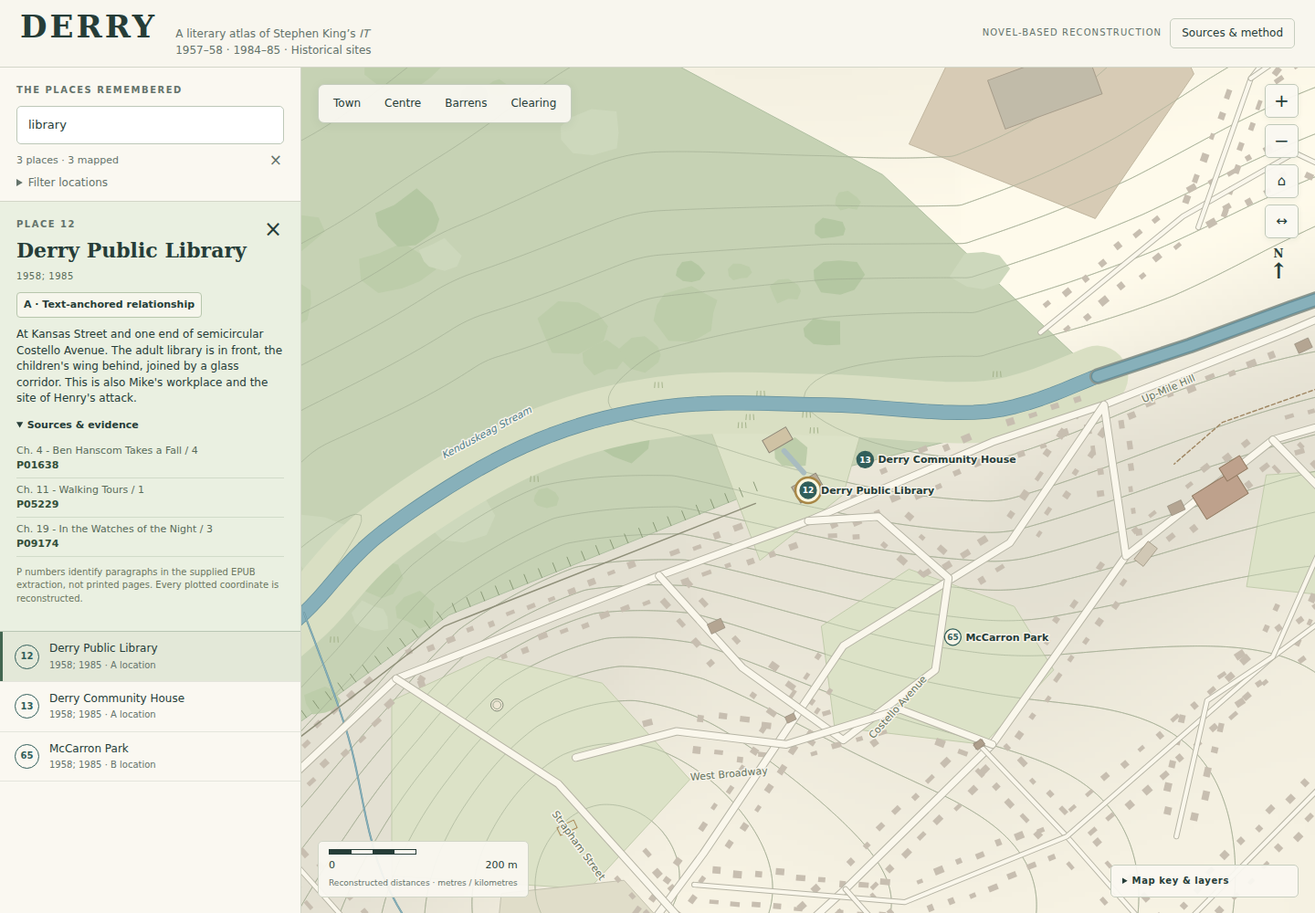
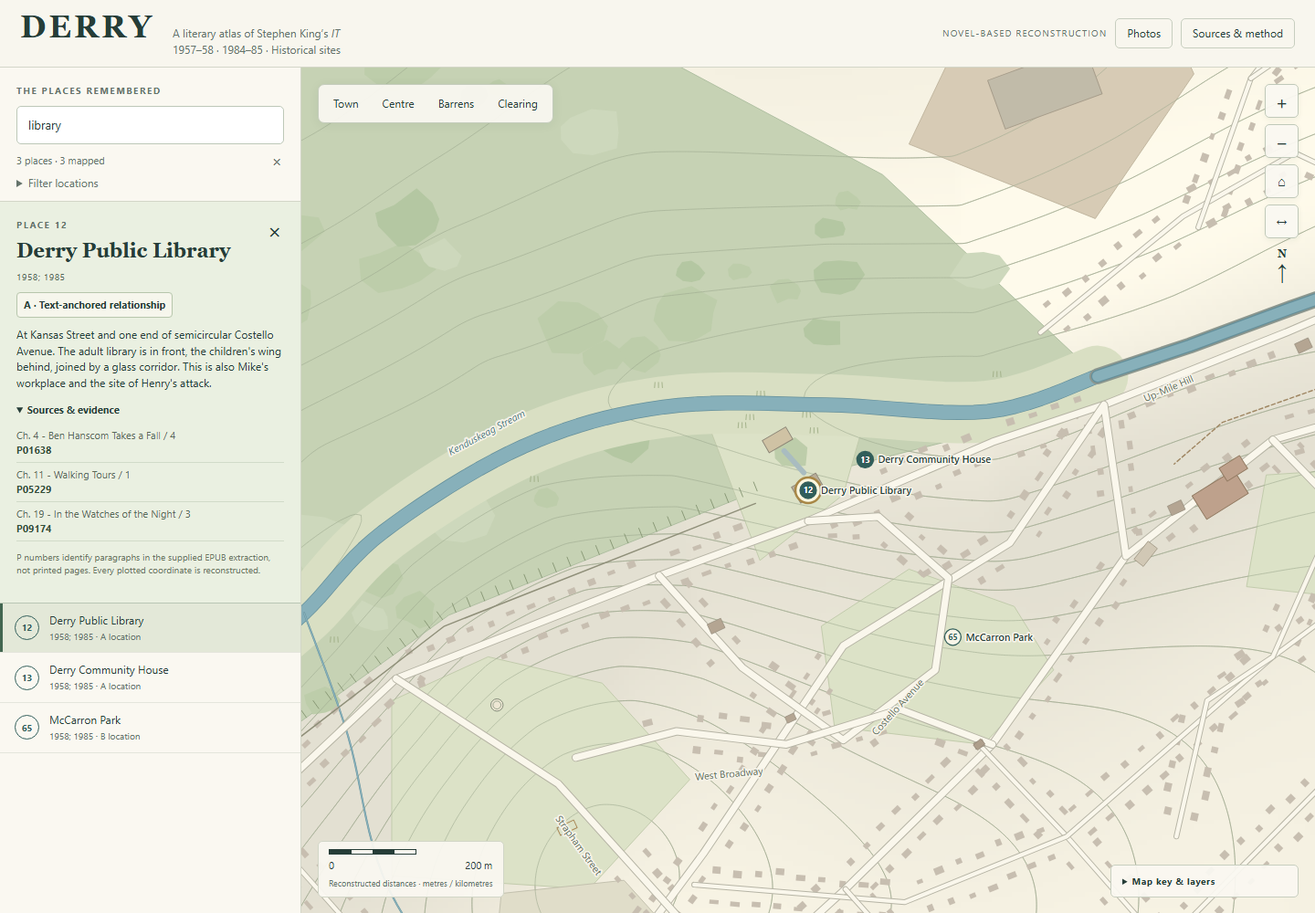
Фотогалерея, стадия 2: страница галереи и страницы фото
- /photos/ — галерея с фильтрами в query-параметрах: place/character/year
  одиночные, tag — несколько через запятую («хотя бы один из»), измерения
  сочетаются как И; запятая и двоеточие не экранируются — ссылками удобно
  делиться
- /photos/<id>/ — страница фото: medium с переходом на оригинал, все
  атрибуты ведут на фильтры галереи
- Deep-link карты /?place=<ключ> открывает карточку места; «Show on the
  map» у мест-точек и нелокализованных, у дорог маркера нет — ссылки нет
- Взаимные ссылки в шапках: Photos на карте, Map в галерее
- Тесты: tests/test_gallery.py (9 шт.), browser.cjs расширен проверками
  галереи и deep-link'ов (устойчив к установке без фото)
- docs/data_interface.md: новые эндпоинты; MANIFEST.sha256 перегенерирован

diff --git a/atlas/static/atlas/map.css b/atlas/static/atlas/map.css
@@ -2,5 +2,7 @@
 :root{--paper:#f6f3e9;--ink:#263d38;--muted:#64736b;--line:#d3d6c8;--accent:#a34b35}*{box-sizing:border-box}body{margin:0;background:var(--paper);color:var(--ink);font:14px/1.45 system-ui,-apple-system,BlinkMacSystemFont,"Segoe UI",sans-serif}button,input{font:inherit}button{cursor:pointer;color:inherit}button:focus-visible,a:focus-visible,input:focus-visible,summary:focus-visible{outline:3px solid #a88746;outline-offset:2px}button:disabled{opacity:.35;cursor:default}.app{height:100vh;height:100dvh;display:grid;grid-template-rows:74px 1fr}header{display:flex;align-items:center;justify-content:space-between;gap:18px;border-bottom:1px solid var(--line);padding:10px 22px;background:#f8f6ee;z-index:5}.brand{display:flex;align-items:baseline;gap:20px}.brand h1{font:700 34px Georgia,serif;letter-spacing:3px;margin:0}.brand p{margin:0;color:var(--muted);font-size:12px;max-width:380px}.header-actions{display:flex;align-items:center;gap:9px}.pill{font-size:10px;letter-spacing:1.1px;color:var(--muted)}.quiet{border:1px solid #c7cebf;border-radius:5px;background:transparent;padding:7px 12px;font-size:12px}.workspace{min-height:0;display:grid;grid-template-columns:330px 1fr}aside{min-height:0;border-right:1px solid var(--line);display:flex;flex-direction:column;background:#faf8f1;z-index:4}.search-area{padding:18px 18px 10px;border-bottom:1px solid var(--line)}.eyebrow{font-size:10px;font-weight:700;letter-spacing:1.5px;text-transform:uppercase;color:var(--muted);margin-bottom:9px}.search{width:100%;padding:11px 12px;border:1px solid #bdc8b8;border-radius:5px;background:white;color:var(--ink);font-size:13px}.counts{display:flex;justify-content:space-between;align-items:center;padding-top:9px;color:var(--muted);font-size:11px}.filters{padding-top:8px;font-size:12px}.filters summary{cursor:pointer;color:var(--muted)}.filtergrid{display:grid;grid-template-columns:1fr 1fr;gap:7px 4px;padding:10px 0 3px}.filtergrid label{display:flex;align-items:center;gap:5px}.filtergrid input{accent-color:#315e5a}.sidebar-scroll{min-height:0;overflow-y:auto;overscroll-behavior:contain}.intro{padding:17px 18px 15px;color:var(--muted);font-size:12px;border-bottom:1px solid var(--line)}.intro p{margin:0 0 9px}.intro b{color:var(--ink)}.place-list{list-style:none;padding:0;margin:0}.place-list li{border-bottom:1px solid #e4e5dc}.place-list button{display:flex;gap:11px;width:100%;text-align:left;border:0;background:transparent;padding:10px 16px;align-items:center}.place-list button:hover{background:#efeee4}.place-list button.selected{background:#e3e8d8;border-left:3px solid #426650;padding-left:13px}.num{display:grid;place-items:center;flex:0 0 27px;width:27px;height:27px;border-radius:50%;border:1px solid currentColor;font-size:10px;font-weight:750}.item-title{display:block;font-size:12px;line-height:1.35}.item-sub{display:block;color:var(--muted);font-size:10px;margin-top:3px}.detail{padding:18px;border-bottom:1px solid #b9c6b4;background:#eaf0e1}.detail-top{display:flex;align-items:flex-start;gap:12px;justify-content:space-between}.detail h2{font:600 22px/1.17 Georgia,serif;margin:6px 0 8px}.detail p{font-size:12px;margin:10px 0}.detail .meta{font-size:10px;color:#576a57;text-transform:uppercase;letter-spacing:.55px}.close{border:0;background:none;font-size:24px;line-height:1;padding:0 2px}.badge{font-size:11px;font-weight:700;padding:5px 7px;border:1px solid #b7c6ac;border-radius:4px;display:inline-block;background:#f6f6ec}.detail details{font-size:11px;margin:13px 0 0}.detail summary{cursor:pointer;font-weight:650}.refs{margin:7px 0 0;padding:0;list-style:none;color:#586b59}.refs li{padding:5px 0;border-bottom:1px solid #d1dbc9}.refs b{color:#334e39}.detail .note{font-size:10px;color:#6b765f}.stage{position:relative;overflow:hidden;min-width:0;background:#efeddf;touch-action:none}svg#map{display:block;width:100%;height:100%;cursor:grab;touch-action:none}svg#map.dragging{cursor:grabbing}svg#map.measuring{cursor:crosshair}.viewbar{position:absolute;left:18px;top:18px;display:flex;padding:4px;background:#faf8f1ed;border:1px solid #c4ccbc;border-radius:7px;box-shadow:0 2px 12px #273d3610;gap:2px}.viewbar button{background:none;border:0;border-radius:4px;padding:8px 12px;font-size:12px}.viewbar button.active{background:#315e5a;color:#fff}.tools{position:absolute;right:18px;top:18px;display:flex;flex-direction:column;gap:7px}.tools button{width:37px;height:37px;background:#faf8f1f0;border:1px solid #c0c9b9;border-radius:5px;font-size:20px;box-shadow:0 2px 6px #273d3610}.tools button.small{font-size:15px}.tools button.on{background:#315e5a;color:white}.north{position:absolute;right:30px;top:197px;font:bold 12px Georgia,serif;text-align:center;pointer-events:none}.north span{display:block;font-size:24px;line-height:23px}.scale-panel{position:absolute;left:18px;bottom:17px;padding:8px 11px;background:#faf8f1ed;border-radius:5px;border:1px solid #d1d6c7;pointer-events:none}.scale-line{height:6px;border:1px solid var(--ink);background:linear-gradient(90deg,var(--ink) 0 25%,transparent 25% 50%,var(--ink) 50% 75%,transparent 75%);margin-bottom:4px}.scale-text{font-size:11px;display:flex;justify-content:space-between}.scale-caption{font-size:9px;color:var(--muted);margin-top:5px}.map-legend{position:absolute;bottom:17px;right:18px;width:206px;background:#faf8f1ed;border:1px solid #c7cebf;border-radius:5px;padding:10px 12px;font-size:10px}.map-legend summary{font-weight:700;cursor:pointer;letter-spacing:.6px;font-size:10px}.legend-items{display:grid;gap:5px;margin-top:9px}.legend-items label{display:flex;align-items:center;gap:6px}.legend-items input{accent-color:#315e5a}.legend-items p{color:var(--muted);margin:4px 0 2px;font-size:10px}.toast{position:absolute;bottom:88px;left:50%;transform:translateX(-50%);max-width:90%;border:1px solid #bac7b1;border-radius:6px;padding:9px 14px;background:#faf8f1ed;text-align:center;font-size:12px;box-shadow:0 2px 6px #1e302915;pointer-events:none}.mark{cursor:pointer}.mark text{font:700 9px system-ui,sans-serif;pointer-events:none}.mark:focus{outline:none}.map-name{font:600 11px system-ui,sans-serif;fill:#263d38;paint-order:stroke;stroke:#f6f3e9;stroke-width:3px;stroke-linejoin:round;pointer-events:none}.map-road{font:11px system-ui,sans-serif;fill:#66735d;paint-order:stroke;stroke:#f6f3e9;stroke-width:3px;stroke-linejoin:round;pointer-events:none}dialog{max-width:770px;width:calc(100vw - 30px);max-height:85vh;border:1px solid #acbda3;border-radius:10px;padding:26px;background:#faf8f1;color:var(--ink);box-shadow:0 20px 100px #172b3855}dialog::backdrop{background:#172a2c77}dialog h2{font:700 29px Georgia,serif;margin:0 0 14px}dialog h3{font-size:13px;margin-top:22px}dialog p,dialog li{font-size:13px}dialog a{color:#315e5a}dialog .close{float:right}.source{padding:11px 0;border-top:1px solid #d6ddcd}.source a{font-weight:650}.source p{font-size:12px;margin:5px 0;color:#586b59}.help{color:var(--muted);font-size:11px;margin-top:16px}.mobile-toggle{display:none}.empty{padding:20px;font-size:12px;color:#7a6752}#map:focus{outline:2px solid #a88746;outline-offset:-2px}
 @media(max-width:780px){.app{grid-template-rows:65px 1fr}header{padding:8px 13px}.brand{gap:10px}.brand h1{font-size:25px}.brand p{font-size:10px;max-width:170px}.pill{display:none}.quiet{padding:7px 8px;font-size:11px}.workspace{grid-template-columns:1fr;grid-template-rows:1fr;position:relative}aside{position:absolute;left:10px;top:60px;bottom:74px;width:min(330px,calc(100% - 66px));border:1px solid #c3ccba;border-radius:7px;box-shadow:0 4px 20px #1f3a3420;display:none}.workspace.open aside{display:flex}.stage{grid-row:1}.viewbar{left:10px;top:10px;padding:3px}.viewbar button{font-size:11px;padding:8px 9px}.tools{top:64px;right:10px}.north{right:22px;top:242px}.map-legend{right:10px;bottom:12px;width:159px;padding:8px;font-size:9px}.scale-panel{left:10px;bottom:12px;max-width:175px}.scale-caption{font-size:8px}.mobile-toggle{display:inline-block}.search-area{padding:12px}.intro,.detail{padding:13px}.toast{bottom:93px;left:50%;width:80%;font-size:11px}.source p{font-size:11px}}
 @media print{header,aside,.viewbar,.tools,.map-legend,.toast{display:none!important}.app,.workspace,.stage{display:block;height:100vh;width:100vw}.north{top:20px}svg#map{width:100%;height:100%}}
+/* The header "Photos" link shares the .quiet button look. */
+a.quiet{text-decoration:none;color:inherit;display:inline-block}
 /* Compact header: keep controls and title fully visible on narrow screens. */
 @media(max-width:780px){.brand{display:block;min-width:0}.brand p{display:none}.brand h1{line-height:1.1}.header-actions{flex-shrink:0}.header-actions .quiet{white-space:nowrap}}

diff --git a/atlas/templates/atlas/index.html b/atlas/templates/atlas/index.html
@@ -2,7 +2,7 @@
 <!doctype html>
 <html lang="en"><head><meta charset="utf-8"><meta name="viewport" content="width=device-width, initial-scale=1"><title>Derry · A literary atlas of IT</title>
 <link rel="stylesheet" href="{% static 'atlas/map.css' %}"></head><body>
-<div class="app"><header><div class="brand"><h1>DERRY</h1><p>A literary atlas of Stephen King’s <i>IT</i><br>1957–58 · 1984–85 · Historical sites</p></div><div class="header-actions"><span class="pill">NOVEL-BASED RECONSTRUCTION</span><button class="quiet mobile-toggle" id="placesToggle" aria-expanded="false">Places</button><button class="quiet" id="aboutBtn">Sources & method</button></div></header>
+<div class="app"><header><div class="brand"><h1>DERRY</h1><p>A literary atlas of Stephen King’s <i>IT</i><br>1957–58 · 1984–85 · Historical sites</p></div><div class="header-actions"><span class="pill">NOVEL-BASED RECONSTRUCTION</span><button class="quiet mobile-toggle" id="placesToggle" aria-expanded="false">Places</button><a class="quiet" href="/photos/">Photos</a><button class="quiet" id="aboutBtn">Sources & method</button></div></header>
 <div class="workspace" id="workspace"><aside aria-label="Place index"><div class="search-area"><div class="eyebrow">The places remembered</div><input class="search" id="search" placeholder="Search a place, person or event…" aria-label="Search locations"><div class="counts"><span id="count"></span><button id="clearSearch" class="close" aria-label="Clear search" style="font-size:17px">×</button></div><details class="filters"><summary>Filter locations</summary><div class="filtergrid" id="filters"></div></details></div><div class="sidebar-scroll" id="scroll"><section id="detail" class="detail" hidden aria-live="polite"></section><div class="intro" id="intro"><p><b>One town, several remembered times.</b> Former places remain on the same map as their later uses.</p><p>Choose a numbered marker to see the book reference and the reasoning behind its position. Zoom in for smaller sites. Search also includes places that cannot be located.</p><p>Filled circle: text-anchored relationship.<br>Open circle: inferred position.<br>Diamond: proposed location.</p></div><ul class="place-list" id="list"></ul></div></aside>
 <main class="stage" aria-label="Interactive map"><svg id="map" xmlns="http://www.w3.org/2000/svg" tabindex="0" aria-label="Derry map. Use arrow keys to pan and plus or minus to zoom."><g id="world"></g><g id="landLabels"></g><g id="markers"></g><g id="measureLayer"></g></svg><nav class="viewbar" aria-label="Map regions"><button data-view="city" class="active">Town</button><button data-view="central">Centre</button><button data-view="barrens">Barrens</button><button data-view="camp">Clearing</button></nav><div class="tools"><button id="zoomIn" aria-label="Zoom in" title="Zoom in">+</button><button id="zoomOut" aria-label="Zoom out" title="Zoom out">−</button><button id="reset" class="small" aria-label="Show all Derry" title="Show all Derry">⌂</button><button id="measure" class="small" aria-label="Measure straight-line distance" title="Measure a straight-line distance">↔</button></div><div class="north" aria-hidden="true">N<span>↑</span></div><div class="scale-panel"><div class="scale-line" id="scaleLine"></div><div class="scale-text"><span>0</span><span id="scaleText"></span></div><div class="scale-caption">Reconstructed distances · metres / kilometres</div></div><details class="map-legend"><summary>Map key & layers</summary><div class="legend-items"><label><input type="checkbox" id="showNames" checked>Place names</label><label><input type="checkbox" id="showRelief" checked>Conceptual relief</label><label><input type="checkbox" id="showBuildings" checked>Illustrative buildings</label><p>Green: woodland / park<br>Blue: surface water<br>Dashed blue: covered channel<br>Dashed brown: inferred footpath</p><p>Contours are not measured elevations. All coordinates and boundaries are reconstructed.</p></div></details><div class="toast" id="toast" hidden></div></main></div></div>
 <dialog id="about"><button class="close" id="closeAbout" aria-label="Close sources">×</button><h2>Built from the novel</h2><p>This is a reasoned reconstruction of fictional geography, not a canonical or surveyed map. The supplied English text of <i>IT</i> is the primary source. Film and television geography has not been used.</p><p>The town plan combines both main periods and the historical interludes. Dates in the place cards distinguish former sites and replacements; the map does not depict a single historical day. It covers surface geography only.</p><h3>What the symbols mean</h3><p><b>A · Text-anchored relationship.</b> The street, adjoining feature or named site is explicit. The plotted coordinate remains reconstructed.<br><b>B · Inferred position.</b> Routes, proximity and relative directions constrain the placement.<br><b>C · Proposed location.</b> A substantial gap remains; the position is a plausible option.<br><b>U · Unlocated / off map.</b> The place is indexed without an invented coordinate.</p><h3>Where the book does not settle the geometry</h3><p id="methodGeometry"></p><p>The original research notes record the reconstruction decisions and remaining contradictions. Current evidence is shown in the place cards.</p><h3>Primary text</h3><p>Stephen King, <i>IT</i>. English EPUB supplied by the reader. The exact edition is not reliably identified in its metadata. References name chapters or interludes; P numbers refer to paragraphs in this specific extraction, not printed pages. No complete novel text is included in this website.</p><h3>Open sources consulted</h3><div id="sources"></div><p class="help">The map is served by this website. Optional source links open external websites. Drag to pan; use the wheel, buttons or pinch gesture to zoom. With the map focused, arrow keys pan and + / − zoom. The ruler measures straight-line distances in the reconstruction, not canonical travel distances. Press Escape to clear a measurement or close a place card.</p></dialog>

diff --git a/atlas/static/atlas/gallery.css b/atlas/static/atlas/gallery.css
@@ -1,0 +1,43 @@
+/* Страницы фотогалереи; палитра и шапка согласованы с map.css. */
+:root{--paper:#f6f3e9;--ink:#263d38;--muted:#64736b;--line:#d3d6c8;--accent:#a34b35}
+*{box-sizing:border-box}
+body{margin:0;background:var(--paper);color:var(--ink);font:14px/1.45 system-ui,-apple-system,BlinkMacSystemFont,"Segoe UI",sans-serif}
+a{color:#315e5a}
+a:focus-visible{outline:3px solid #a88746;outline-offset:2px}
+header{display:flex;align-items:center;justify-content:space-between;gap:18px;border-bottom:1px solid var(--line);padding:10px 22px;background:#f8f6ee}
+.brand{display:flex;align-items:baseline;gap:20px}
+.brand h1{font:700 34px Georgia,serif;letter-spacing:3px;margin:0}
+.brand p{margin:0;color:var(--muted);font-size:12px;max-width:380px}
+.header-actions{display:flex;align-items:center;gap:9px}
+.pill{font-size:10px;letter-spacing:1.1px;color:var(--muted)}
+.quiet{border:1px solid #c7cebf;border-radius:5px;background:transparent;padding:7px 12px;font-size:12px;color:inherit;text-decoration:none;display:inline-block}
+.page{max-width:1060px;margin:0 auto;padding:20px 22px 50px}
+.filters{border:1px solid var(--line);border-radius:7px;background:#faf8f1;padding:6px 14px;margin-bottom:20px}
+.frow{display:flex;align-items:baseline;gap:10px;padding:7px 0;border-bottom:1px solid #e4e5dc}
+.frow:last-child{border-bottom:0}
+.fname{flex:0 0 84px;font-size:10px;font-weight:700;letter-spacing:1.5px;text-transform:uppercase;color:var(--muted)}
+.chips{display:flex;flex-wrap:wrap;gap:6px}
+.chip{display:inline-flex;align-items:center;gap:5px;border:1px solid #c7cebf;border-radius:12px;padding:3px 10px;font-size:12px;text-decoration:none;color:var(--ink);background:#fff}
+.chip:hover{background:#efeee4}
+.chip.on{background:#315e5a;border-color:#315e5a;color:#fff}
+.chip .n{font-size:10px;color:var(--muted)}
+.chip.on .n{color:#cfe0d2}
+.status{justify-content:space-between;color:var(--muted);font-size:12px}
+.grid{list-style:none;margin:0;padding:0;display:grid;grid-template-columns:repeat(auto-fill,minmax(240px,1fr));gap:18px}
+.card{border:1px solid var(--line);border-radius:7px;background:#faf8f1;overflow:hidden;display:flex;flex-direction:column}
+.card .pic{display:block;background:#e8e4d4}
+.card img{display:block;width:100%;height:auto}
+.card .caption{margin:0;padding:10px 12px 4px;font-size:12px}
+.card .caption a{color:var(--ink);text-decoration:none}
+.card .caption a:hover{text-decoration:underline}
+.card .meta{margin:0;padding:0 12px 11px;font-size:11px;color:var(--muted)}
+.empty{padding:30px 0;font-size:13px;color:#7a6752}
+.crumbs{font-size:12px;margin:0 0 14px}
+.photo{max-width:820px}
+.photo figure{margin:0}
+.photo img{display:block;width:100%;height:auto;border:1px solid var(--line);border-radius:7px;background:#e8e4d4}
+.photo figcaption{font:600 17px/1.35 Georgia,serif;margin:14px 0 4px}
+.facts{display:grid;grid-template-columns:110px 1fr;gap:8px 14px;margin:18px 0 0;font-size:13px}
+.facts dt{font-size:10px;font-weight:700;letter-spacing:1.5px;text-transform:uppercase;color:var(--muted);padding-top:2px}
+.facts dd{margin:0}
+@media(max-width:780px){.brand h1{font-size:25px}.brand p{display:none}.page{padding:14px 14px 40px}.frow{flex-wrap:wrap;gap:4px 10px}.fname{flex-basis:100%;padding-bottom:2px}.facts{grid-template-columns:1fr;gap:2px}.facts dd{margin-bottom:8px}}

diff --git a/atlas/static/atlas/map.js b/atlas/static/atlas/map.js
@@ -74,7 +74,9 @@ map.addEventListener('pointercancel',e=>{pointers.delete(e.pointerId);last=null;
 map.addEventListener('wheel',e=>{e.preventDefault();zoom(Math.exp(-Math.max(-120,Math.min(120,e.deltaY))*.003),...local(e))},{passive:false});map.addEventListener('dblclick',e=>{if(!state.measuring&&!e.target.closest('.mark'))zoom(1.8,...local(e))});
 map.addEventListener('keydown',e=>{if(e.key==='+'||e.key==='='){e.preventDefault();zoom(1.4)}else if(e.key==='-'){e.preventDefault();zoom(1/1.4)}else if(['ArrowLeft','ArrowRight','ArrowUp','ArrowDown'].includes(e.key)){e.preventDefault();state.cx+=({'ArrowLeft':-80,'ArrowRight':80}[e.key]||0)/state.k;state.cy+=({'ArrowUp':80,'ArrowDown':-80}[e.key]||0)/state.k;state.view='';render()}});
 document.addEventListener('keydown',e=>{if(e.key==='Escape'){if(state.measuring)toggleMeasure(false);else closeDetail()}});
-new ResizeObserver(entries=>{const r=entries[0].contentRect;state.w=r.width;state.h=r.height;if(!state.ready){state.ready=true;fit('city')}else render()}).observe(q('.stage'));
+// Deep link from the photo gallery: /?place=12 or /?place=U3 opens the place card.
+function deepLink(){const p=new URLSearchParams(location.search).get('place');if(p)select(/^\d+$/.test(p)?Number(p):p,true)}
+new ResizeObserver(entries=>{const r=entries[0].contentRect;state.w=r.width;state.h=r.height;if(!state.ready){state.ready=true;fit('city');deepLink()}else render()}).observe(q('.stage'));
 list();
 // Exposed read-only diagnostics make the offline artifact easy to validate.
 window.DerryAtlas={get revision(){return PAYLOAD.revision},get siteCount(){return D.sites.length},get unlocatedCount(){return D.unplaced.length},get view(){return {...state,active:[...state.active]}},select,fit,format};

diff --git a/atlas/templates/atlas/gallery.html b/atlas/templates/atlas/gallery.html
@@ -1,0 +1,17 @@
+{% extends 'atlas/gallery_base.html' %}
+{% block title %}Photographs{% endblock %}
+{% block content %}
+<section class="filters" aria-label="Photograph filters">
+{% for g in groups %}{% if g.options %}<div class="frow"><span class="fname">{{ g.title }}</span><span class="chips">{% for o in g.options %}<a class="chip{% if o.active %} on{% endif %}" href="{{ o.url }}">{{ o.label }}{% if o.count %}<span class="n">{{ o.count }}</span>{% endif %}</a>{% endfor %}</span></div>{% endif %}{% endfor %}
+<div class="frow status"><span>{{ cards|length }} photograph{{ cards|length|pluralize }}</span>{% if filtered %}<a class="clear" href="{{ clear_url }}">Clear filters ×</a>{% endif %}</div>
+</section>
+{% if cards %}
+<ul class="grid">
+{% for c in cards %}<li class="card">
+<a class="pic" href="/photos/{{ c.photo.id }}/"><img src="{{ c.thumb }}" alt="{{ c.photo.caption|default:c.photo.original_name }}" width="{{ c.photo.width }}" height="{{ c.photo.height }}" loading="lazy"></a>
+<p class="caption"><a href="/photos/{{ c.photo.id }}/">{{ c.photo.caption|default:c.photo.original_name }}</a></p>
+<p class="meta">{% if c.photo.year %}<a href="{{ c.year_url }}">{{ c.photo.year }}</a>{% endif %}{% if c.photo.year and c.place_url %} · {% endif %}{% if c.place_url %}<a href="{{ c.place_url }}">{{ c.place_label }}</a>{% endif %}</p>
+</li>{% endfor %}
+</ul>
+{% else %}<p class="empty">No photographs match these filters. <a href="{{ clear_url }}">Show all photographs</a>.</p>{% endif %}
+{% endblock %}

diff --git a/atlas/templates/atlas/photo.html b/atlas/templates/atlas/photo.html
@@ -1,0 +1,16 @@
+{% extends 'atlas/gallery_base.html' %}
+{% block title %}{{ photo.caption|default:photo.original_name|truncatechars:60 }}{% endblock %}
+{% block content %}
+<p class="crumbs"><a href="/photos/">← All photographs</a></p>
+<article class="photo">
+<figure><a href="{{ urls.original }}" title="Open the original file"><img src="{{ urls.medium }}" alt="{{ photo.caption|default:photo.original_name }}" width="{{ photo.width }}" height="{{ photo.height }}"></a>
+{% if photo.caption %}<figcaption>{{ photo.caption }}</figcaption>{% endif %}</figure>
+<dl class="facts">
+{% if photo.year %}<dt>Year</dt><dd><a href="{{ year_url }}">{{ photo.year }}</a></dd>{% endif %}
+{% if place_label %}<dt>Place</dt><dd><a href="{{ place_url }}">{{ place_label }}</a>{% if map_url %} · <a href="{{ map_url }}">Show on the map</a>{% endif %}</dd>{% endif %}
+{% if characters %}<dt>Characters</dt><dd>{% for c in characters %}<a href="{{ c.url }}">{{ c.name }}</a>{% if not forloop.last %}, {% endif %}{% endfor %}</dd>{% endif %}
+{% if tags %}<dt>Tags</dt><dd class="chips">{% for t in tags %}<a class="chip" href="{{ t.url }}">{{ t.slug }}</a>{% endfor %}</dd>{% endif %}
+<dt>Original</dt><dd><a href="{{ urls.original }}">{{ photo.width }} × {{ photo.height }} px · {{ photo.ext|upper }}</a></dd>
+</dl>
+</article>
+{% endblock %}

diff --git a/atlas/templates/atlas/gallery_base.html b/atlas/templates/atlas/gallery_base.html
@@ -1,0 +1,7 @@
+{% load static %}
+<!doctype html>
+<html lang="en"><head><meta charset="utf-8"><meta name="viewport" content="width=device-width, initial-scale=1"><title>{% block title %}Photographs{% endblock %} · Derry</title>
+<link rel="stylesheet" href="{% static 'atlas/gallery.css' %}"></head><body>
+<header><div class="brand"><h1>DERRY</h1><p>Photographs from a literary atlas of Stephen King’s <i>IT</i><br>1957–58 · 1984–85</p></div><div class="header-actions"><span class="pill">NOVEL-BASED RECONSTRUCTION</span><a class="quiet" href="/">Map</a></div></header>
+<main class="page">{% block content %}{% endblock %}</main>
+</body></html>

diff --git a/tests/test_gallery.py b/tests/test_gallery.py
@@ -1,0 +1,126 @@
+import tempfile
+from pathlib import Path
+from django.test import TestCase, override_settings
+from atlas import photos
+from atlas.models import Feature, Geometry
+
+from .test_photos import make_image
+
+
+# Обычное статическое хранилище: манифест whitenoise в тестах не собирается.
+@override_settings(ALLOWED_HOSTS=['testserver'], STORAGES={
+    'default': {'BACKEND': 'django.core.files.storage.FileSystemStorage'},
+    'staticfiles': {'BACKEND': 'django.contrib.staticfiles.storage.StaticFilesStorage'}})
+class GalleryTests(TestCase):
+    @classmethod
+    def setUpTestData(cls):
+        point = Geometry.objects.create(key='g:12', shape={'type': 'point', 'x': 0, 'y': 0})
+        line = Geometry.objects.create(key='g:road:02', shape={'type': 'line', 'points': [[0, 0], [10, 0]]})
+        Feature.objects.create(key='12', object_type='site', name='Derry Public Library',
+                               short='Library', kind='Civic', confidence='B', rank=2,
+                               geometry=point, metadata={})
+        Feature.objects.create(key='road:02', object_type='road', name='Main Street',
+                               geometry=line, metadata={})
+
+    def setUp(self):
+        self.dir = tempfile.TemporaryDirectory()
+        self.addCleanup(self.dir.cleanup)
+        root = Path(self.dir.name)
+        self.settings_override = override_settings(MEDIA_ROOT=root / 'media')
+        self.settings_override.enable()
+        self.addCleanup(self.settings_override.disable)
+        source = root / 'incoming'
+        # Разные цвета — разные SHA-256, иначе add() отбросит дубликаты.
+        make_image(source / 'a.png', color=(10, 20, 30))
+        make_image(source / 'b.png', color=(40, 50, 60))
+        make_image(source / 'c.png', color=(70, 80, 90))
+        make_image(source / 'd.png', color=(100, 110, 120))
+        self.ben = photos.add(source / 'a.png', caption='Ben at the library.', feature='12',
+                              year=1958, characters=['ben-hanscom'], tags=['library', 'interior'])
+        self.building = photos.add(source / 'b.png', caption='The library building.', feature='12',
+                                   year=1958, tags=['library', 'architecture'])
+        self.bill = photos.add(source / 'c.png', caption='Bill races Silver.', feature='road:02',
+                               year=1958, characters=['bill-denbrough'], tags=['silver'])
+        self.loose = photos.add(source / 'd.png', caption='Derry in 1985.', year=1985)
+
+    def captions(self, response):
+        return [c for c in ('Ben at the library.', 'The library building.',
+                            'Bill races Silver.', 'Derry in 1985.')
+                if c.encode() in response.content]
+
+    def test_gallery_lists_all_photos_with_thumbs_and_filter_panel(self):
+        response = self.client.get('/photos/')
+        self.assertEqual(response.status_code, 200)
+        self.assertEqual(response['Cache-Control'], 'no-cache')
+        self.assertEqual(len(self.captions(response)), 4)
+        self.assertContains(response, photos.relative_paths(self.ben.sha256, self.ben.ext)['thumb'])
+        self.assertContains(response, f'/photos/{self.ben.id}/')
+        self.assertContains(response, 'Derry Public Library')
+        self.assertContains(response, 'Ben Hanscom')
+        self.assertContains(response, '4 photographs')
+        # Год показан: в наборе два разных года.
+        self.assertContains(response, '?year=1985')
+
+    def test_place_filter_and_readable_url(self):
+        response = self.client.get('/photos/', {'place': '12'})
+        self.assertEqual(self.captions(response), ['Ben at the library.', 'The library building.'])
+        self.assertContains(response, 'Clear filters')
+        response = self.client.get('/photos/', {'place': 'road:02'})
+        self.assertEqual(self.captions(response), ['Bill races Silver.'])
+        # Ключ дороги в собранных ссылках остаётся читабельным.
+        self.assertContains(self.client.get('/photos/'), '?place=road:02')
+
+    def test_character_filter(self):
+        response = self.client.get('/photos/', {'character': 'ben-hanscom'})
+        self.assertEqual(self.captions(response), ['Ben at the library.'])
+
+    def test_tags_are_any_of_and_deduplicated(self):
+        response = self.client.get('/photos/', {'tag': 'library,silver'})
+        self.assertEqual(self.captions(response),
+                         ['Ben at the library.', 'The library building.', 'Bill races Silver.'])
+        self.assertContains(response, '3 photographs')
+        # Фото с обоими тегами не задваивается.
+        response = self.client.get('/photos/', {'tag': 'library,interior'})
+        self.assertContains(response, '2 photographs')
+        # Ссылка-переключатель второго тега дописывает его через запятую.
+        response = self.client.get('/photos/', {'tag': 'library'})
+        self.assertContains(response, '?tag=library,interior')
+
+    def test_dimensions_combine_as_and(self):
+        response = self.client.get('/photos/', {'place': '12', 'tag': 'interior', 'year': '1958'})
+        self.assertEqual(self.captions(response), ['Ben at the library.'])
+        response = self.client.get('/photos/', {'place': '12', 'character': 'bill-denbrough'})
+        self.assertEqual(self.captions(response), [])
+
+    def test_unknown_or_invalid_values_give_empty_result_not_error(self):
+        for params in ({'tag': 'no-such-tag'}, {'place': '999'}, {'character': 'pennywise'},
+                       {'year': '1929'}, {'year': 'abc'}):
+            response = self.client.get('/photos/', params)
+            self.assertEqual(response.status_code, 200)
+            self.assertContains(response, 'No photographs match')
+            self.assertContains(response, 'Clear filters')
+
+    def test_photo_page_shows_attributes_as_filter_links(self):
+        response = self.client.get(f'/photos/{self.ben.id}/')
+        self.assertEqual(response.status_code, 200)
+        rel = photos.relative_paths(self.ben.sha256, self.ben.ext)
+        self.assertContains(response, rel['medium'])
+        self.assertContains(response, rel['original'])
+        self.assertContains(response, 'Ben at the library.')
+        self.assertContains(response, '?character=ben-hanscom')
+        self.assertContains(response, '?tag=library')
+        self.assertContains(response, '?place=12')
+        self.assertContains(response, '?year=1958')
+        self.assertContains(response, '/?place=12')  # место-точка: есть переход на карту
+
+    def test_photo_page_map_link_only_for_sites(self):
+        response = self.client.get(f'/photos/{self.bill.id}/')
+        self.assertContains(response, '?place=road:02')  # фильтр галереи остаётся
+        self.assertNotContains(response, 'Show on the map')  # у дороги нет маркера на карте
+        response = self.client.get(f'/photos/{self.loose.id}/')
+        self.assertNotContains(response, 'Place')  # без привязки нет и блока места
+
+    def test_missing_photo_and_write_methods(self):
+        self.assertEqual(self.client.get('/photos/999/').status_code, 404)
+        self.assertEqual(self.client.post('/photos/').status_code, 405)
+        self.assertEqual(self.client.post(f'/photos/{self.ben.id}/').status_code, 405)

diff --git a/atlas/views.py b/atlas/views.py
@@ -1,10 +1,14 @@
+from collections import Counter
 from pathlib import Path
+from urllib.parse import urlencode
 from django.conf import settings
+from django.db.models import Count
 from django.http import FileResponse, Http404, JsonResponse, HttpResponse, HttpResponseNotModified
-from django.shortcuts import render
+from django.shortcuts import get_object_or_404, render
 from django.utils._os import safe_join
 from django.views.decorators.http import require_safe
-from .models import MapState
+from .models import Character, Feature, MapState, Photo, Tag
+from .photos import relative_paths
 from .rendering import current_payload, RENDER_VERSION
 
 
@@ -28,6 +32,115 @@ def map_data(request):
         etag = '"'+key+'"'
         response = JsonResponse(payload, json_dumps_params={'ensure_ascii':False,'separators':(',',':')})
     response['ETag'] = etag
+    response['Cache-Control'] = 'no-cache'
+    return response
+
+
+def _media_urls(photo):
+    return {k: settings.MEDIA_URL + v for k, v in relative_paths(photo.sha256, photo.ext).items()}
+
+
+def _gallery_url(place='', character='', tags=(), year=''):
+    """URL галереи; запятая и двоеточие не экранируются, чтобы ссылками
+    вида ?place=road:02&tag=library,summer было удобно делиться."""
+    pairs = [('place', place), ('character', character), ('tag', ','.join(tags)), ('year', year)]
+    query = urlencode([(k, v) for k, v in pairs if v], safe=',:')
+    return '/photos/' + ('?' + query if query else '')
+
+
+@require_safe
+def gallery(request):
+    """Фильтры в query-параметрах: place/character/year — одно значение,
+    tag — несколько через запятую, «хотя бы один из»; измерения сочетаются как И."""
+    place = request.GET.get('place', '').strip()
+    character = request.GET.get('character', '').strip()
+    year = request.GET.get('year', '').strip()
+    tags = []
+    for t in request.GET.get('tag', '').split(','):
+        if (t := t.strip()) and t not in tags:
+            tags.append(t)
+    photos = Photo.objects.prefetch_related('characters', 'tags')
+    if place:
+        photos = photos.filter(feature_key=place)
+    if character:
+        photos = photos.filter(characters__slug=character)
+    if tags:
+        photos = photos.filter(tags__slug__in=tags).distinct()
+    if year:
+        photos = photos.filter(year=int(year)) if year.isdigit() else photos.none()
+
+    place_counts = Counter(Photo.objects.exclude(feature_key='').values_list('feature_key', flat=True))
+    features = Feature.objects.in_bulk(set(place_counts) | ({place} if place else set()))
+
+    def option(label, count, active, url):
+        return {'label': label, 'count': count, 'active': active, 'url': url}
+
+    def single(values, current, build):
+        """Опции одиночного измерения: клик по активной снимает фильтр.
+        Значение из URL, которого нет среди опций, добавляется, чтобы его
+        было видно и можно было снять."""
+        options = [option(label, n, v == current, build('' if v == current else v)) for v, label, n in values]
+        if current and all(v != current for v, _, _ in values):
+            options.append(option(current, 0, True, build('')))
+        return options
+
+    place_values = sorted(((k, features[k].name if k in features else k, n) for k, n in place_counts.items()),
+                          key=lambda t: t[1])
+    character_values = [(c.slug, c.name, c.n) for c in
+                        Character.objects.filter(photo__isnull=False).annotate(n=Count('photo')).order_by('name')]
+    tag_values = [(t.slug, t.slug, t.n) for t in
+                  Tag.objects.filter(photo__isnull=False).annotate(n=Count('photo')).order_by('slug')]
+    year_values = [(str(y), str(y), n) for y, n in
+                   sorted(Counter(Photo.objects.exclude(year=None).values_list('year', flat=True)).items())]
+
+    groups = [
+        {'title': 'Place', 'options': single(place_values, place, lambda v: _gallery_url(v, character, tags, year))},
+        {'title': 'Character', 'options': single(character_values, character,
+                                                 lambda v: _gallery_url(place, v, tags, year))},
+        {'title': 'Tags', 'options':
+            [option(label, n, v in tags,
+                    _gallery_url(place, character,
+                                 [t for t in tags if t != v] if v in tags else tags + [v], year))
+             for v, label, n in tag_values] +
+            [option(t, 0, True, _gallery_url(place, character, [x for x in tags if x != t], year))
+             for t in tags if all(v != t for v, _, _ in tag_values)]},
+    ]
+    # Год появляется в панели, только когда лет больше одного (или в URL
+    # пришёл год, которого нет среди фото, — иначе его нечем снять).
+    if len(year_values) > 1 or (year and all(v != year for v, _, _ in year_values)):
+        groups.append({'title': 'Year', 'options': single(year_values, year,
+                                                          lambda v: _gallery_url(place, character, tags, v))})
+
+    cards = []
+    for p in photos:
+        f = features.get(p.feature_key)
+        cards.append({'photo': p, 'thumb': _media_urls(p)['thumb'],
+                      'place_label': f.name if f else p.feature_key,
+                      'place_url': _gallery_url(place=p.feature_key) if p.feature_key else '',
+                      'year_url': _gallery_url(year=str(p.year)) if p.year else ''})
+    response = render(request, 'atlas/gallery.html', {
+        'groups': groups, 'cards': cards, 'clear_url': '/photos/',
+        'filtered': bool(place or character or tags or year)})
+    response['Cache-Control'] = 'no-cache'
+    return response
+
+
+@require_safe
+def photo_page(request, photo_id):
+    photo = get_object_or_404(Photo.objects.prefetch_related('characters', 'tags'), pk=photo_id)
+    feature = Feature.objects.filter(pk=photo.feature_key).first() if photo.feature_key else None
+    # Карта выделяет точки и нелокализованные записи; у дорог и прочих
+    # контуров маркера нет, поэтому ссылки на карту у таких фото нет.
+    map_url = '/?place=' + feature.key if feature and feature.object_type in ('site', 'unplaced') else ''
+    response = render(request, 'atlas/photo.html', {
+        'photo': photo, 'urls': _media_urls(photo),
+        'place_label': feature.name if feature else photo.feature_key,
+        'place_url': _gallery_url(place=photo.feature_key) if photo.feature_key else '',
+        'map_url': map_url,
+        'year_url': _gallery_url(year=str(photo.year)) if photo.year else '',
+        'characters': [{'name': c.name, 'url': _gallery_url(character=c.slug)}
+                       for c in photo.characters.order_by('name')],
+        'tags': [{'slug': t.slug, 'url': _gallery_url(tags=[t.slug])} for t in photo.tags.order_by('slug')]})
     response['Cache-Control'] = 'no-cache'
     return response
 

diff --git a/config/urls.py b/config/urls.py
@@ -1,5 +1,6 @@
 from django.urls import path
 from atlas import views
 
-urlpatterns = [path('', views.index), path('api/v1/map/', views.map_data),
+urlpatterns = [path('', views.index), path('photos/', views.gallery),
+               path('photos/<int:photo_id>/', views.photo_page), path('api/v1/map/', views.map_data),
                path('media/<path:media_path>', views.media), path('healthz/', views.health)]

diff --git a/docs/data_interface.md b/docs/data_interface.md
@@ -5,6 +5,8 @@
 | Метод и путь | Результат |
 |---|---|
 | GET/HEAD `/` | Страница карты |
+| GET/HEAD `/photos/` | Страница галереи; фильтры в query-параметрах: `place`, `character`, `year` — одно значение, `tag` — слаги через запятую («хотя бы один из»); измерения сочетаются как И |
+| GET/HEAD `/photos/<id>/` | Страница фотографии; атрибуты ведут на фильтры галереи, у мест-точек — ссылка `/?place=<ключ>` (карта открывает карточку места) |
 | GET/HEAD `/api/v1/map/` | Текущая сцена, данные карточек и номер ревизии |
 | GET/HEAD `/media/<путь>` | Файл фотографии (оригинал, medium, thumb); имена содержат SHA-256, кеш бессрочный |
 | GET/HEAD `/healthz/` | `ok`, статус 200; 503, пока нет начальных данных |
